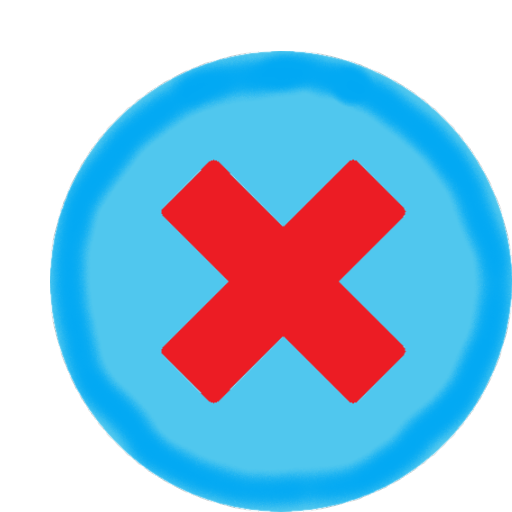
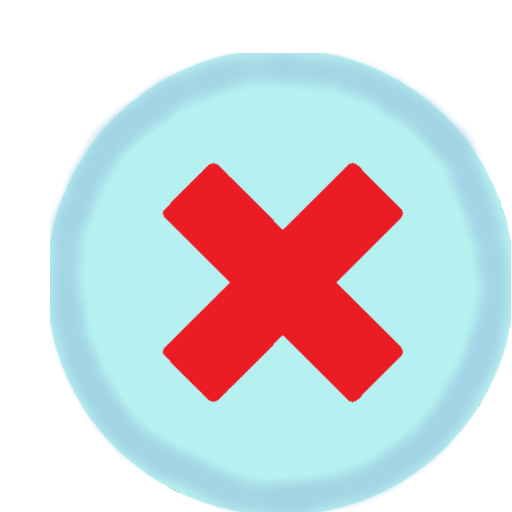
Editados más los colores(definitivos) del menu y botones

diff --git a/src/css/HojaDeEstilo.css b/src/css/HojaDeEstilo.css
@@ -10,18 +10,18 @@
 
 .table-view .column-header, .table-view .filler {
     -fx-border-width: 2 1 2 1;
-    -fx-background-color: #9EDEF3;
-    -fx-border-color: #215454;
+    -fx-background-color: #C6F2F2;
+    -fx-border-color: #A0C4DB;
+    -fx-border-style: solid;
     -fx-border-insets: 0 0 0 0;
 }
 
 .table-view .column-header .label {
     -fx-padding: 5;
     -fx-font-size:15;
-    -fx-text-fill: white;
+    -fx-text-fill: black;
     -fx-alignment: center;
     -fx-opacity: 1;
-    -fx-font-weight: bold;
 }
 
 .table-view:focused .table-row-cell:filled:focused:selected {
@@ -100,6 +100,8 @@
   -fx-border-color:  black;
   -fx-border-width: 0 0 2 0;
   -fx-font-weight: bold;
+  -fx-background-image: url("../img/fondo2.png");
+  -fx-background-size: 30 29;
 }
 
 #bGraph{
